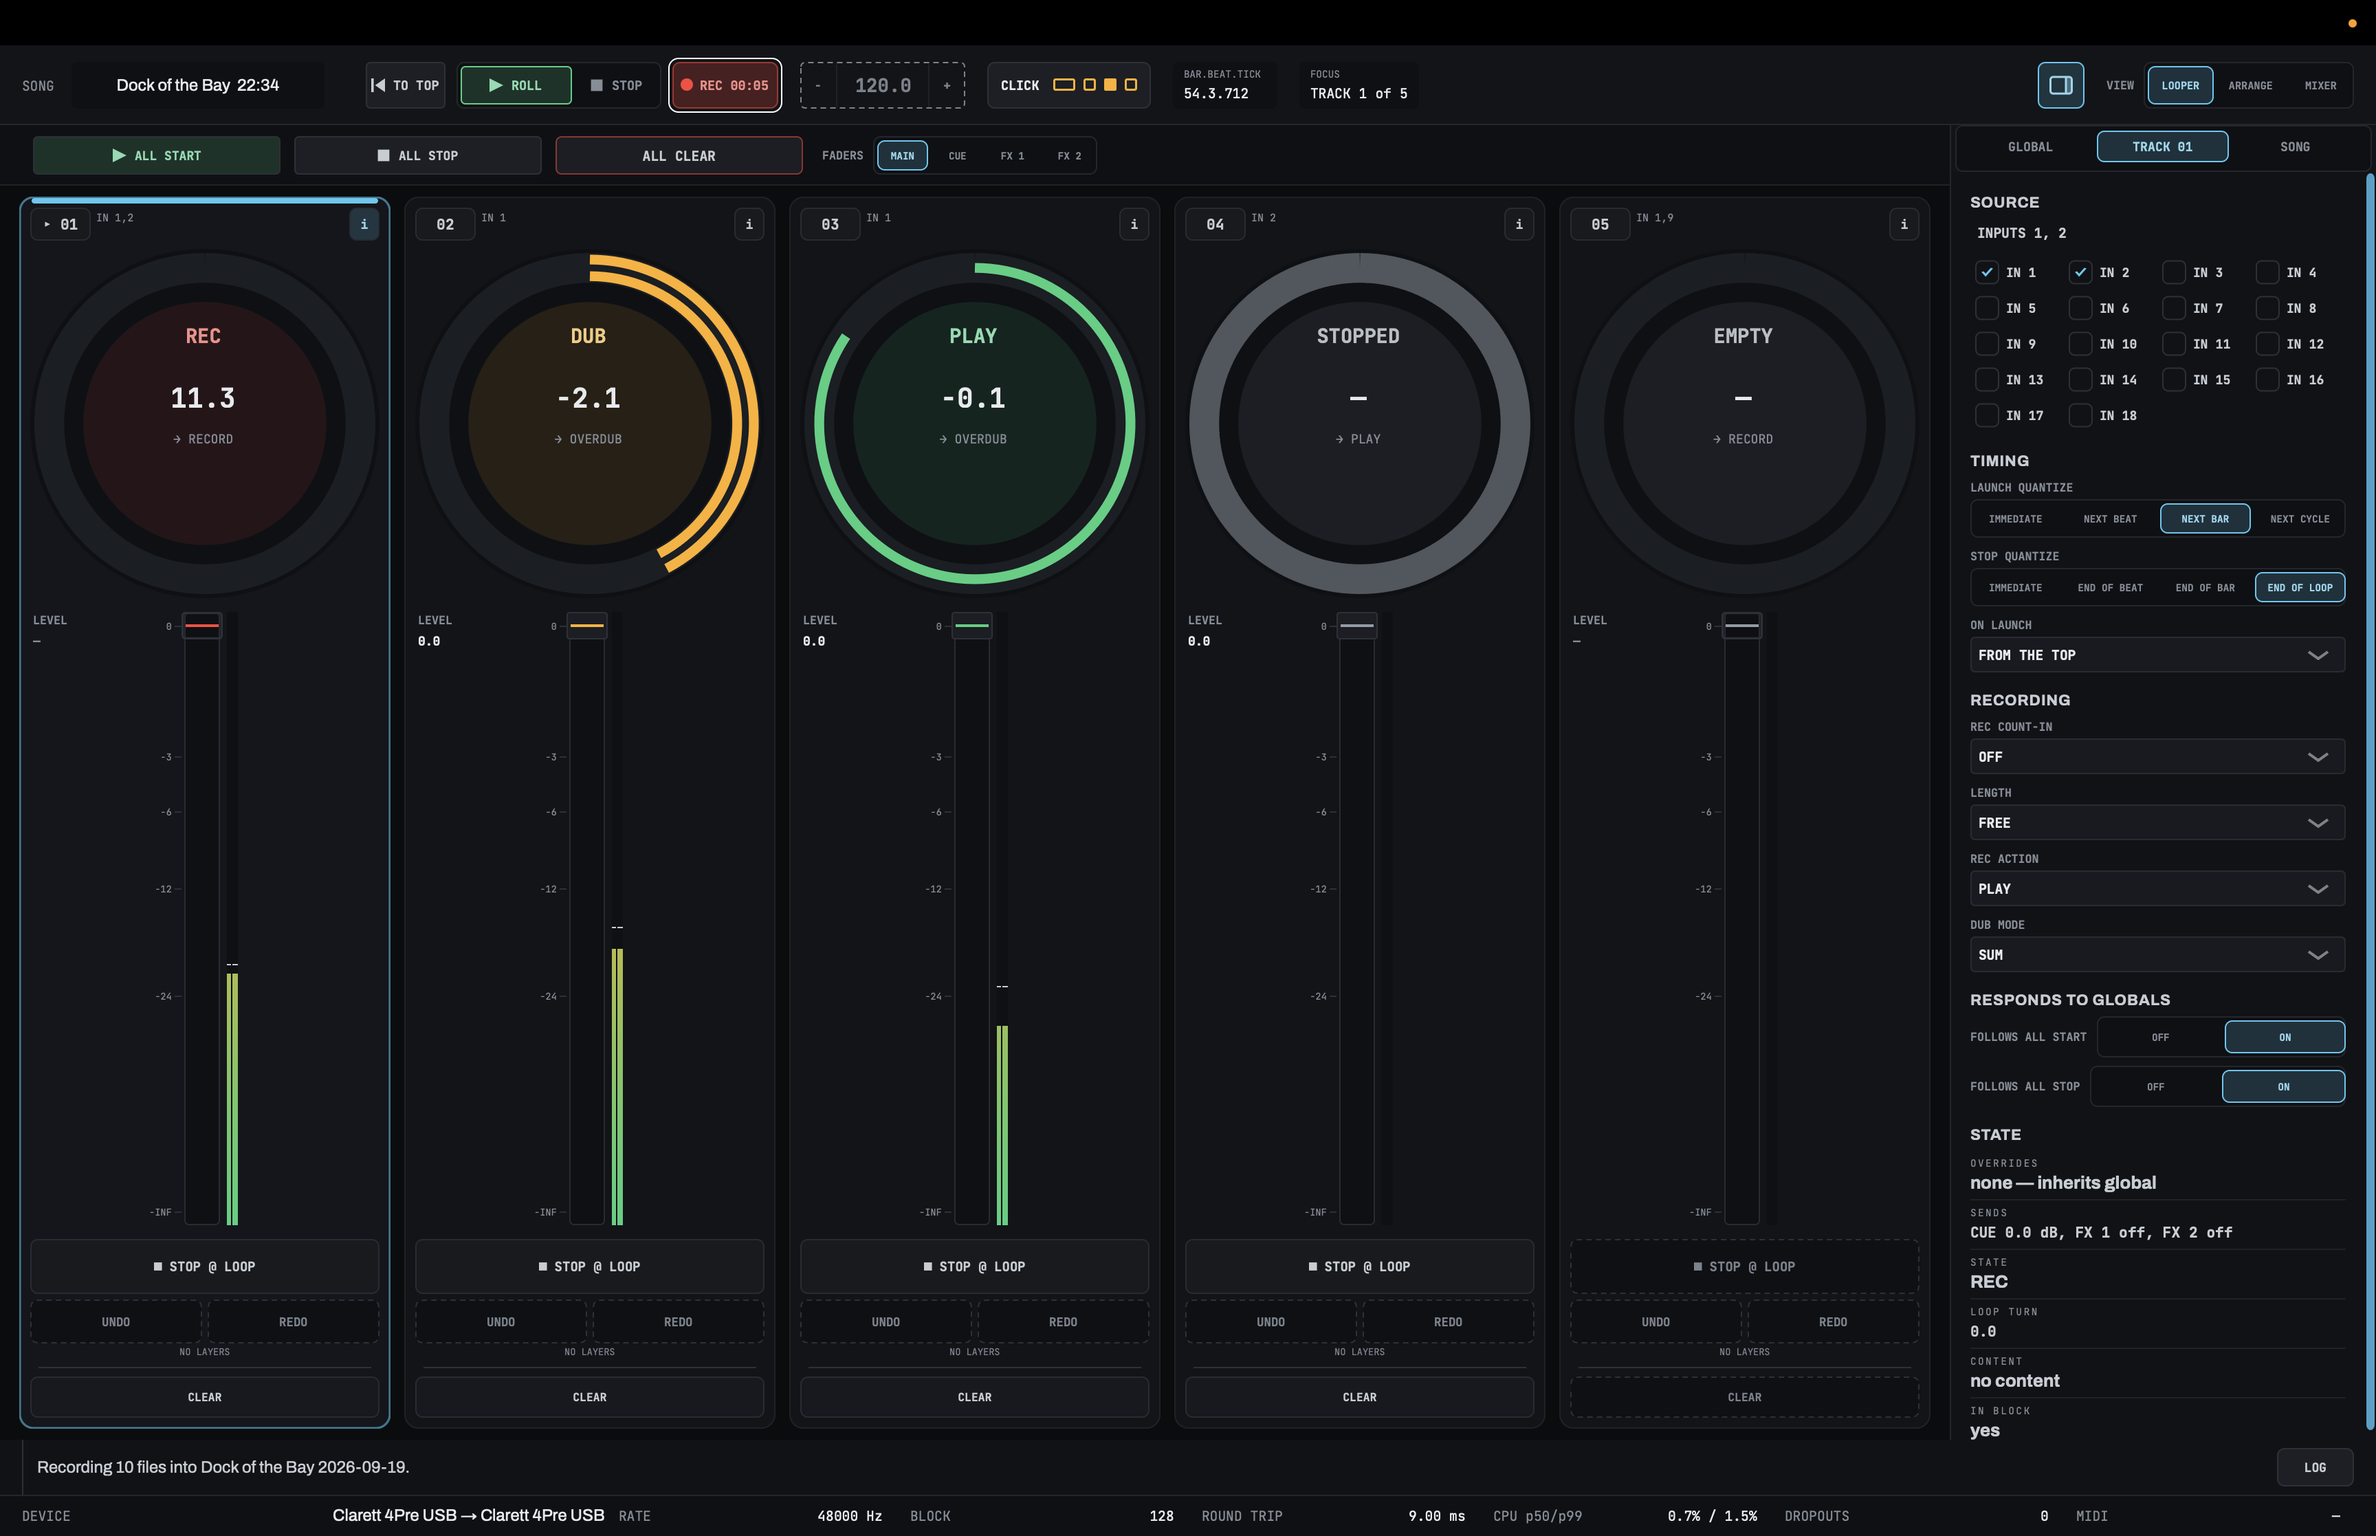
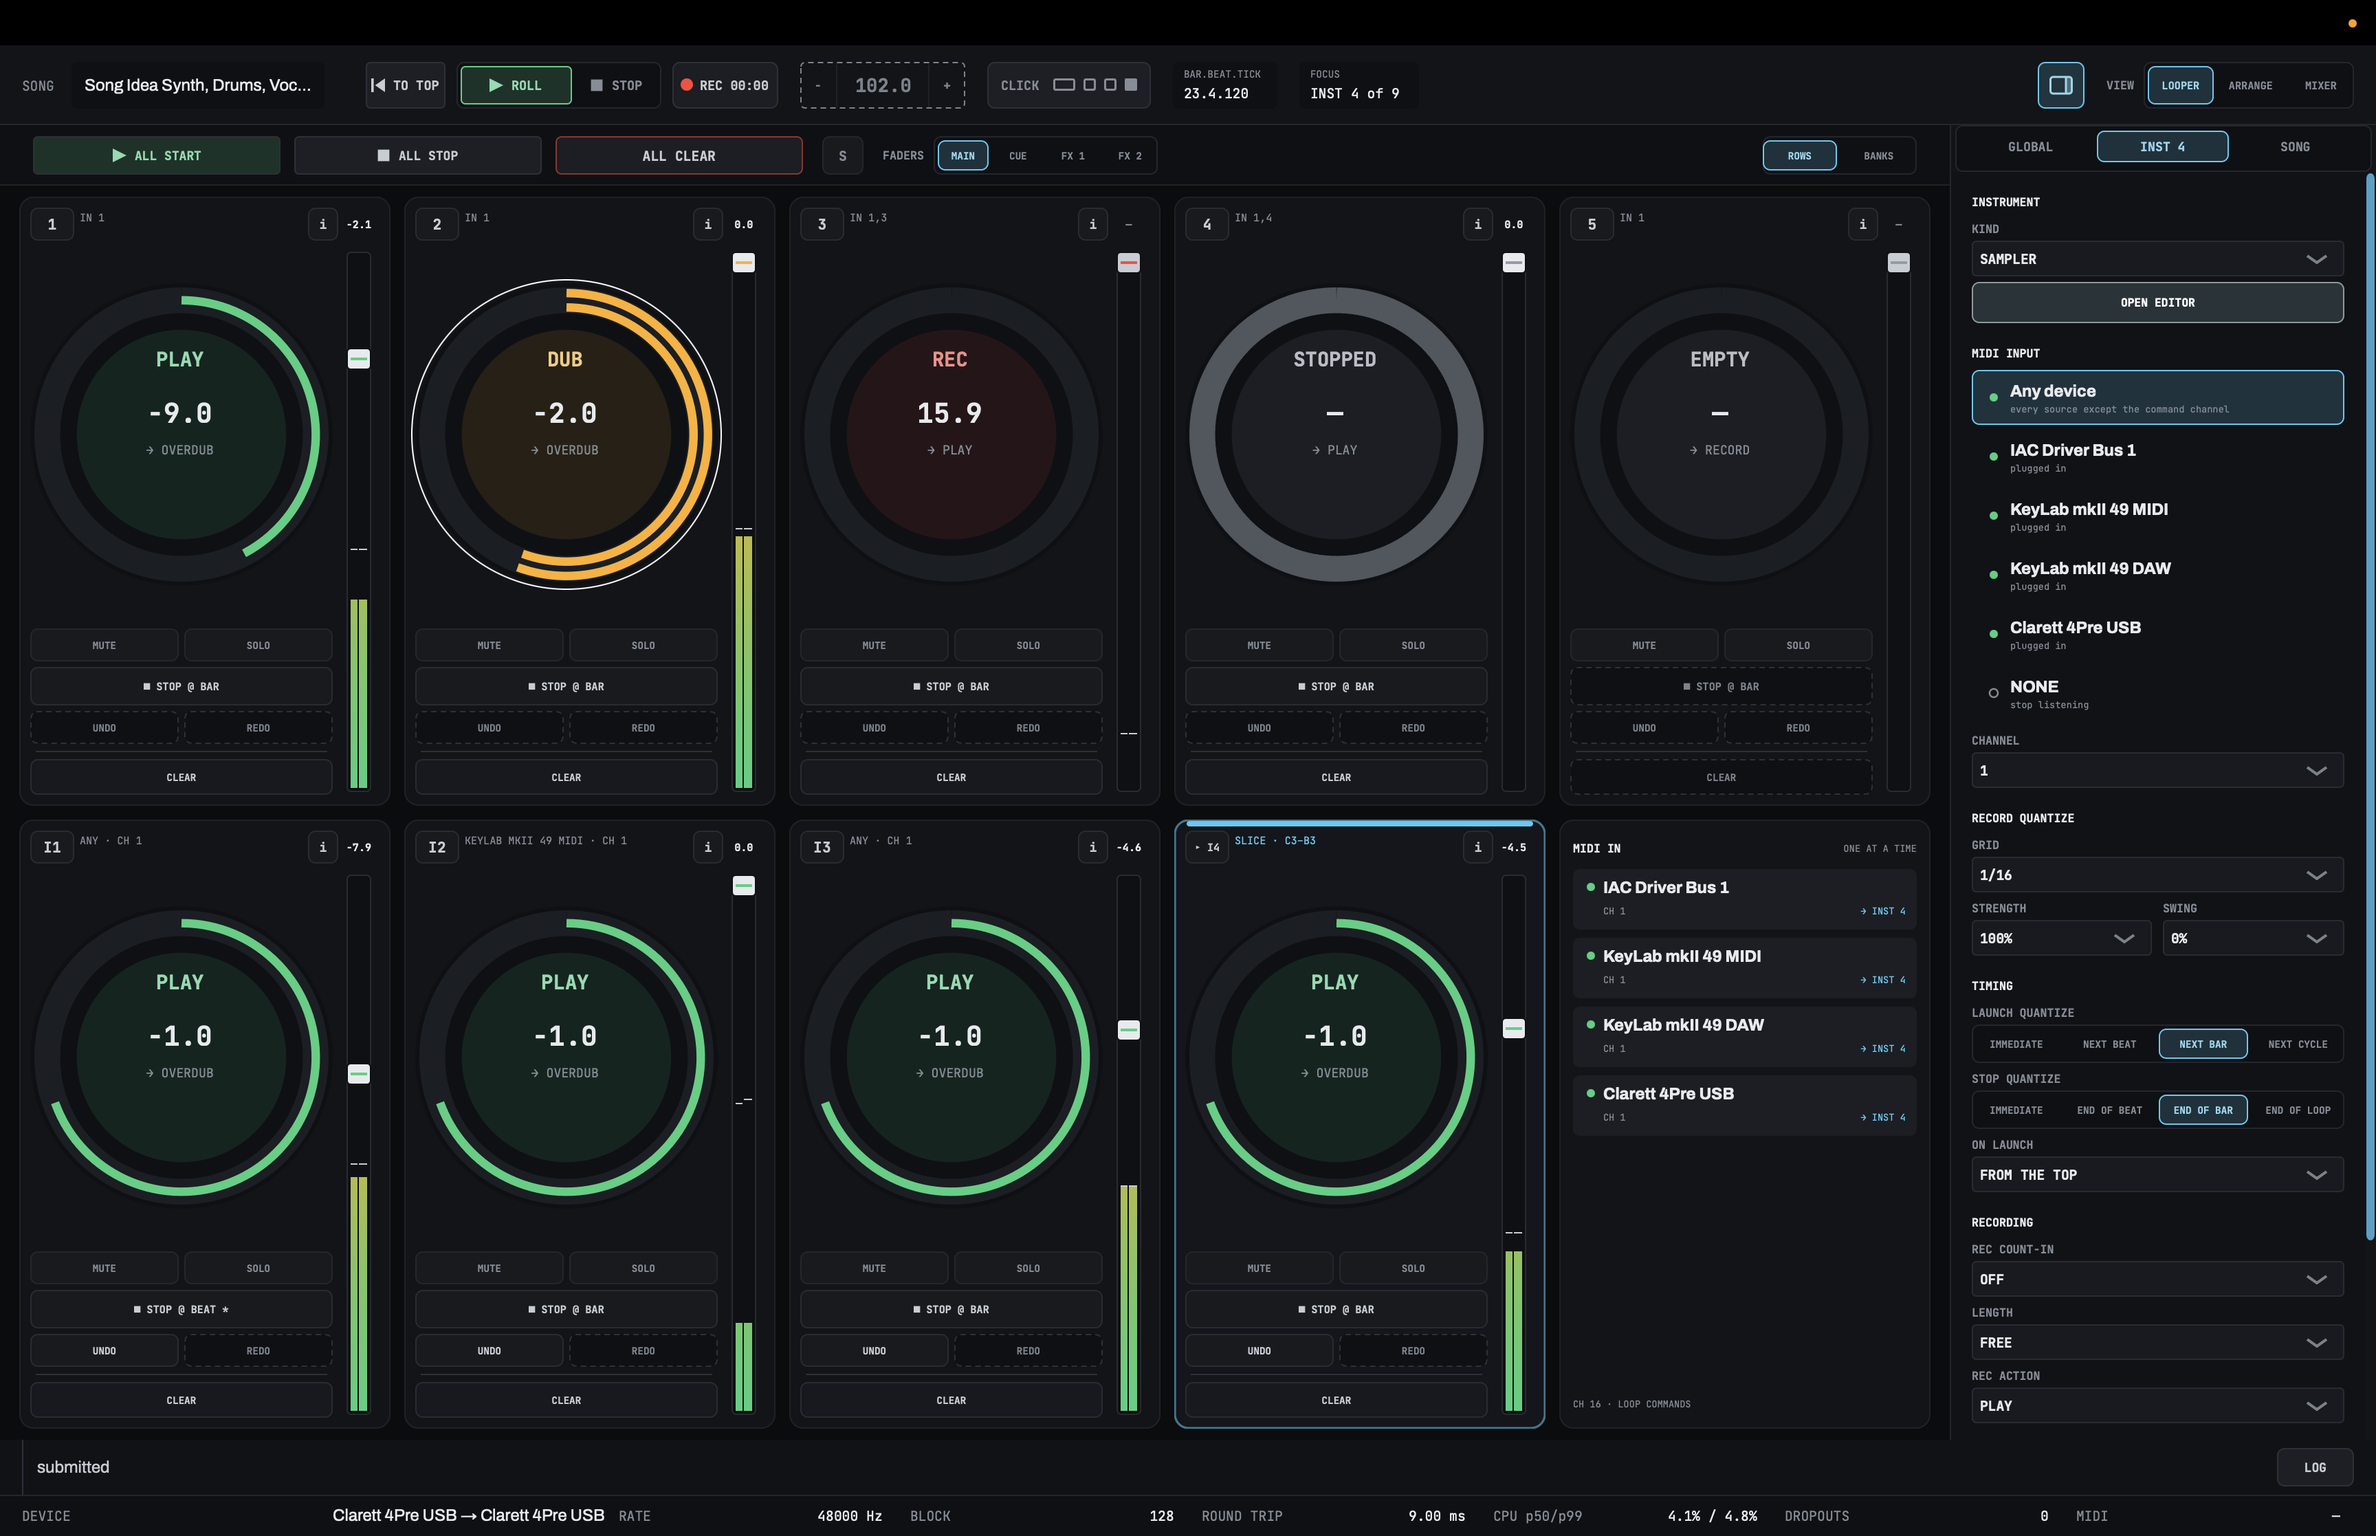
Loom v1.2 updates

diff --git a/src/Listen 2 Reader runs neural text-to-spee.md b/src/Listen 2 Reader runs neural text-to-spee.md
@@ -1,0 +1,69 @@
+Listen 2 Reader runs neural text-to-speech directly on your iPhone or iPad. No cloud services. No subscriptions. No accounts.
+
+Most text-to-speech apps either use basic system voices or require monthly payments for cloud processing. Listen 2 Reader runs
+neural voice models locally, giving you natural-sounding speech without ongoing costs or privacy tradeoffs.
+
+WHAT MAKES LISTEN2 DIFFERENT
+
+Two Voice Engines, One App
+Piper provides reliable neural voices across 16 languages. Supertonic is the high-fidelity engine — flow-matching models running on
+  Apple's Neural Engine via CoreML for natural rhythm and expressive speech. Choose from 100+ voices in English, Spanish, French,
+German, Italian, Portuguese, Russian, Dutch, Polish, Chinese, Japanese, Korean, Arabic, Hindi, Vietnamese, and more.
+
+Voice Tuning
+Fine-tune any voice with quality parameters. Save presets to switch between profiles. Preview pronunciation rules before saving
+them.
+
+Import Anything
+PDF, EPUB, DOCX, DAISY, clipboard, or web articles. Share from Safari and Listen2 extracts the article text. Paywalled content
+works when shared from a browser where you are logged in.
+
+Machine Learning Word Sync
+CTC forced alignment matches audio to text at the word level. Watch each word highlight as it is spoken — across Latin and
+non-Latin scripts alike.
+
+Smart Document Reading
+Multi-column layout handling, footnote filtering, hyphenated word rejoining. AI Vision for scanned PDFs. Full EPUB, DOCX, and DAISY
+  support.
+
+Figure Descriptions
+On-device AI vision generates spoken descriptions of figures, charts, and photos as you listen. For non-English documents,
+descriptions translate automatically via Apple's on-device Translation framework.
+
+Pronunciation Rules
+Fix how any word is spoken without changing display text. Rules for names, terms, or abbreviations. Live preview before saving.
+Built-in presets for footnote markers. Global or per-document.
+
+True Offline Privacy
+Processing, normalization, and synthesis all happen on-device. Documents never leave your phone. No uploads. No accounts. No
+tracking.
+
+FEATURES
+
+- 100+ neural voices across 16 languages
+- Two engines: Piper (broad language support) and Supertonic (high-fidelity CoreML)
+- Import custom Supertonic voices from Voice Builder
+- Voice tuning with saveable presets
+- Word-by-word or sentence highlighting
+- PDF, EPUB, DOCX, DAISY, TXT, Markdown support
+- AI figure descriptions with auto-translation
+- Collections with intros, cover art, and auto-advance
+- Web Article Collections — batch articles into an auto-playing queue
+- Clipboard import and Siri shortcut support
+- 0.5x to 2.5x playback speed
+- Background playback with lock screen controls
+- Import from Files, links, Share Extension, or other apps
+- Pronunciation rules with live preview
+- Atkinson Hyperlegible and OpenDyslexic fonts
+- Full VoiceOver support with rotor navigation and Magic Tap
+
+WHO IT'S FOR
+
+- Commuters turning drive time into learning time
+- Students reviewing papers and textbooks
+- Professionals handling confidential documents privately
+- VoiceOver users looking for a fully accessible TTS reader
+- Readers with dyslexia who benefit from audio-visual sync
+- Anyone tired of TTS subscriptions
+
+One-time purchase. 7-day free trial. No subscriptions.

diff --git a/src/apps/loom.md b/src/apps/loom.md
@@ -13,7 +13,7 @@ permalink: /loom/
 slug: loom
 title: "LOOM — A Loop Station That Plays Itself"
 tagline: A loop station that plays itself
-description: "LOOM is a live looper for the Mac. Record and overdub on five tracks like you would on a pedal, then draw the same moves on a timeline and the song presses its own buttons while you play."
+description: "LOOM is a live looper for the Mac. Record and overdub on five audio tracks like you would on a pedal, play its own synth, drum machine and sampler on four instrument tracks, then draw the same moves on a timeline and the song presses its own buttons while you play."
 ogImage: /assets/loom/shot-looper.png
 # LOOM is a macOS app. It has no App Store listing, so base.njk must not
 # advertise one — without this the page would carry the site's default
